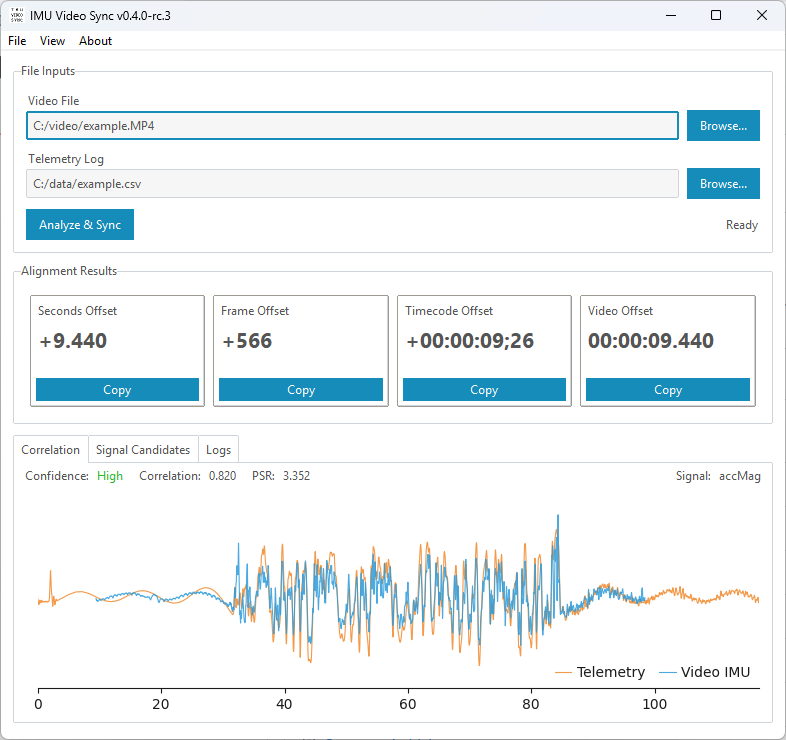
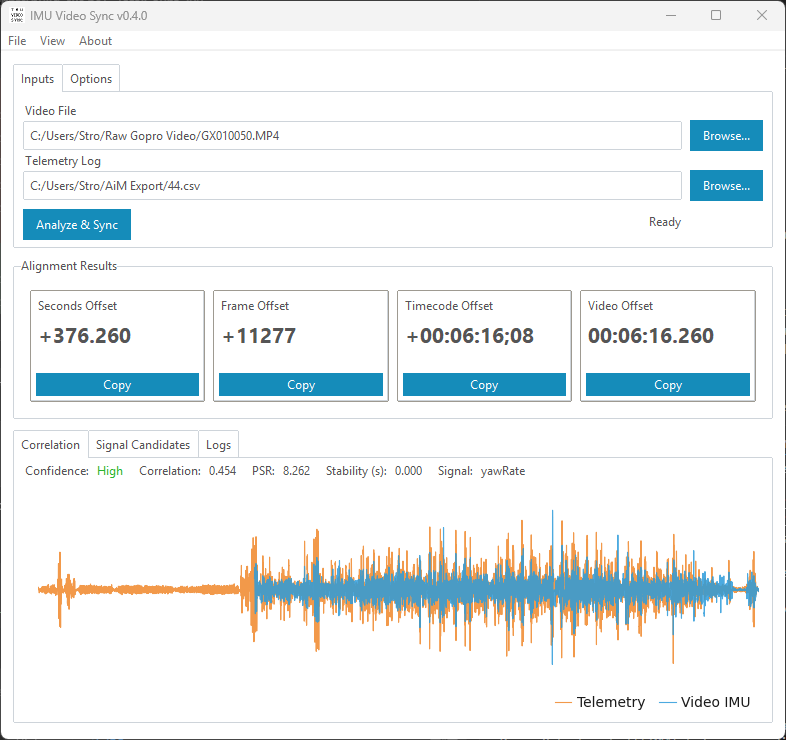
readme

diff --git a/src/imu_video_sync/_version.py b/src/imu_video_sync/_version.py
@@ -1,2 +1,2 @@
-__version__ = "v0.0.0-202603091836"
+__version__ = "v0.4.0"
 
